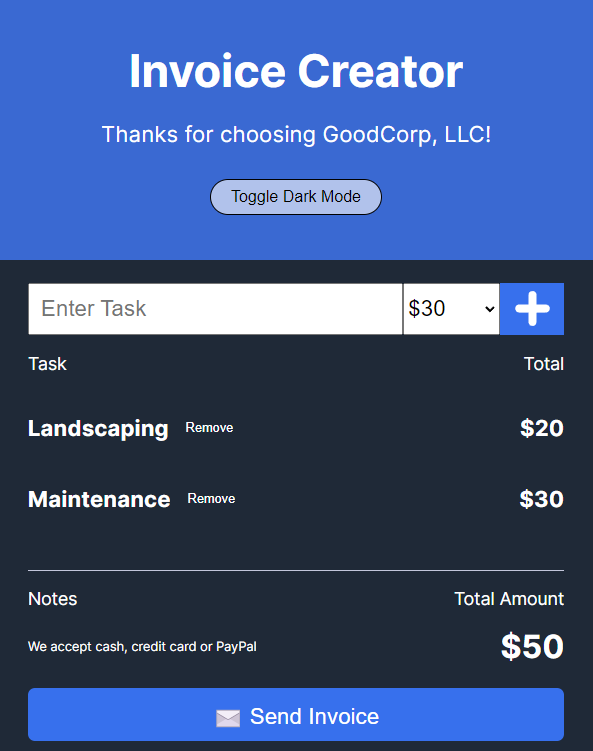
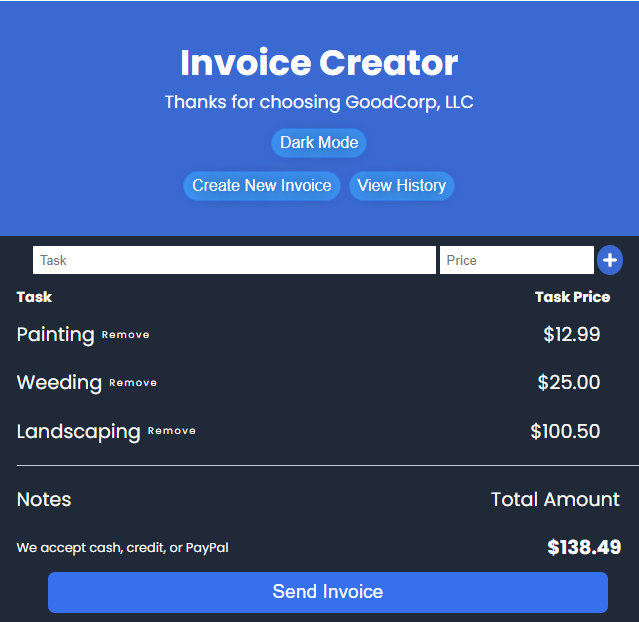
updated Invoice project page with new information

Changed region(s): [[0.0, 0.1527, 1.0, 1.0], [0.2125, 0.0611, 0.7892, 0.1222]]

diff --git a/src/ProjectInfo.jsx b/src/ProjectInfo.jsx
@@ -13,6 +13,47 @@ import MovieGif from "../gifs/Movie-Watchlist-Gif.gif";
 
 const data = [
   {
+    id: 3,
+    linkDescription: `This app allows the user to create invoices with tasks and prices 
+    and then store them in history`,
+    src: InvoicePic,
+    title: "Invoice Creator (Updated August 19, 2023)",
+    subheading: "A JavaScript Project",
+    detailsTitle: "A Scrimba Bootcamp Project",
+    details: `This project involved creating an application where you could enter
+    in a specific task and assign a price to it. Those tasks would then
+    be listed and their totals calculated. It also allows for the
+    removal of any particular item from the list. Clicking the 'Send
+    Invoice' button would then reset the list so you could start over
+    and add new items. I have added many new stretch goals to the project of my own, 
+    including using React to build the app and Firebase to store the data.`,
+    languages: ["HTML", "CSS", "JavaScript", "React", "Firebase"],
+    requirements: `There were 6 main requirements for this project. The first was I
+    needed to create an array to hold all of the tasks that were entered
+    onto the list. I created states within the TaskList component to hold and update this data. 
+    The second requirement was to create a button that would add each task to this array. The third
+    was displaying the array data and making sure that it changed as the array was updated. In 
+    order to do this within React, I used the useEffect hook to watch for changes within the
+    taskList array dependancy. The fourth requirement was to ensure that the same item could not be
+    added twice to the list. The fifth was updating the total amount by keeping track of the price
+     assigned to each task as it was added or removed. The last requirement was to have the
+    'Send Invoice' button reset the entire list. I changed this to store the invoice in history
+    instead.`,
+    requirementsTwo: `There were 4 main stretch goals that I wanted to add to this project.
+    The first, I added an input field so the user could type in what they wanted rather than choose from predetermined
+    options. I also added the same feature for the price, so any amount to 2 decimal places could be entered. 
+    The second stretch goal was to create a Dark Mode toggle button so the user could select the style that best suited
+    their needs. The third stretch goal was to add the ability to view the invoice history of past tasks that have been entered
+    and the dates those were created. The final stretch goal was to use Firebase.  I chose to use a realtime database for this. 
+    I wanted to be able to have a more permanent way to store the data. It was important that the task list remain populated 
+    between screen refreshes if the invoice had not been created yet. As well, I wanted the user to have access to all of
+    their invoice history.`,
+    githubLink: "https://github.com/KeithPetr/Invoice-Creator-React",
+    netlify: "https://invoice-creator-react.netlify.app/",
+    gif: InvoiceGif,
+    gifAlt: "invoice creator app gif",
+  },
+  {
     id: 2,
     linkDescription: `This app lets users select the profiles they like and displays
     the results.`,
@@ -50,6 +91,7 @@ const data = [
     gif: TindogGif,
     gifAlt: "tindog app gif",
   },
+  
   {
     id: 1,
     linkDescription:
@@ -75,40 +117,6 @@ const data = [
     netlify: "https://keith-quizzical-app.netlify.app/",
     gif: QuizzicalGif,
     gifAlt: "quizzical app gif",
-  },
-  {
-    id: 3,
-    linkDescription: `This app allows the user to create a list of tasks and
-    calculate the total price.`,
-    src: InvoicePic,
-    title: "Invoice Creator",
-    subheading: "A JavaScript Project",
-    detailsTitle: "A Scrimba Bootcamp Project",
-    details: `This project involved creating an application where you could enter
-    in a specific task and assign a price to it. Those tasks would then
-    be listed and their totals calculated. It also allows for the
-    removal of any particular item from the list. Clicking the 'Send
-    Invoice' button would then reset the list so you could start over
-    and add new items.`,
-    languages: ["HTML", "CSS", "JavaScript"],
-    requirements: `There were 6 main requirements for this project. The first was I
-    needed to create an array to hold all of the tasks that were entered
-    onto the list. The secodn requirement was to create a button that
-    would add each task to this array. The third was displaying the
-    array data and making sure that it changed as the array was updated.
-    The fourth requirement was to ensure that the same item could not be
-    added twice to the list. The fifth was updating the total amount by
-    keeping track of the price assigned to each task as it was added or
-    removed. The last requirement was to have the 'Send Invoice' button
-    reset the entire list.`,
-    requirementsTwo: `As extra stretch goals, I added an input field so the user could
-    type in what they wanted rather than choose from predetermined
-    options. The final stretch goal was to be able to remove each
-    specific item from the list.`,
-    githubLink: "https://github.com/KeithPetr/Invoice-Creator",
-    netlify: "https://keith-invoice-creator.netlify.app/",
-    gif: InvoiceGif,
-    gifAlt: "invoice creator app gif",
   },
   {
     id: 4,

diff --git a/src/index.css b/src/index.css
@@ -402,7 +402,7 @@ a {
 .project-gif img {
   width: 100%;
   margin-bottom: 1em;
-  max-width: 300px;
+  max-width: 400px;
 }
 
 .source-code {
@@ -417,6 +417,10 @@ a {
   border: none;
   font-size: 1rem;
   margin: 0;
+}
+
+.source-code-link:hover {
+  color: blue;
 }
 
 .tindog-border {
